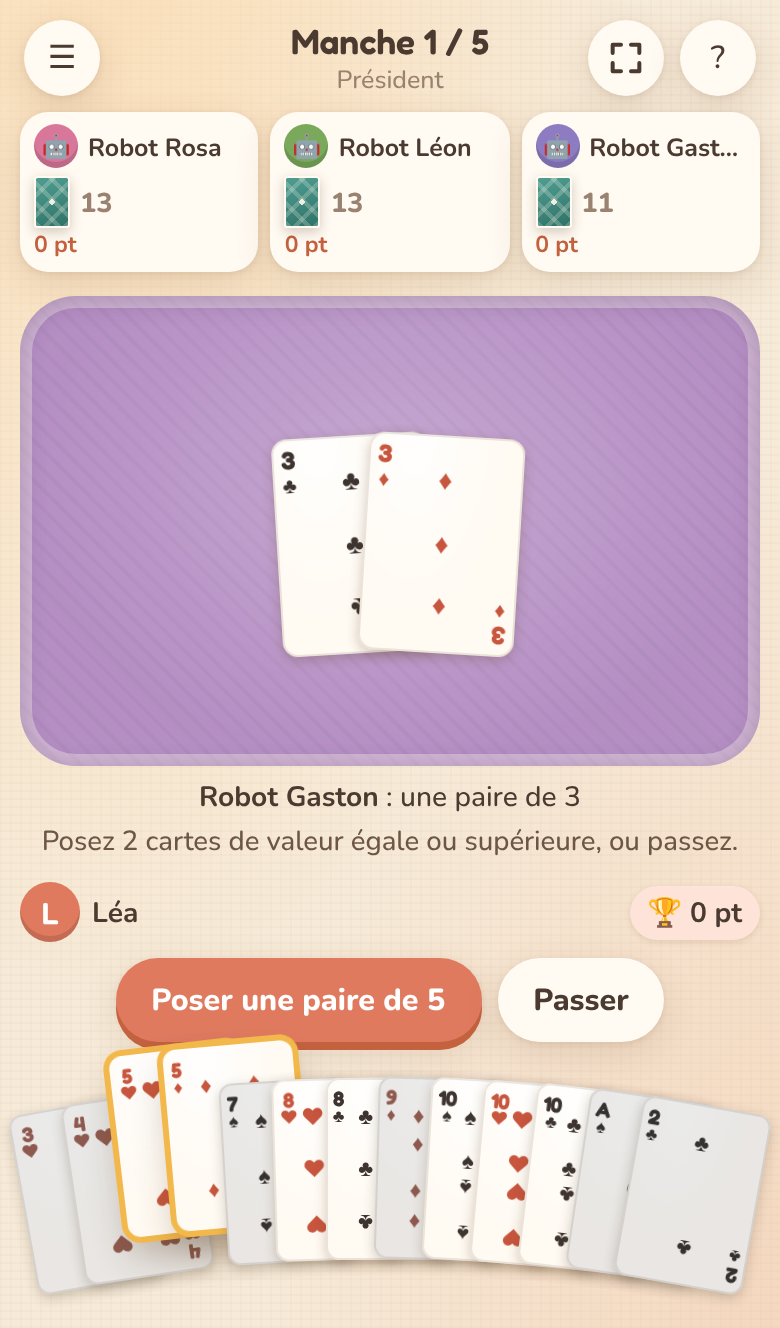
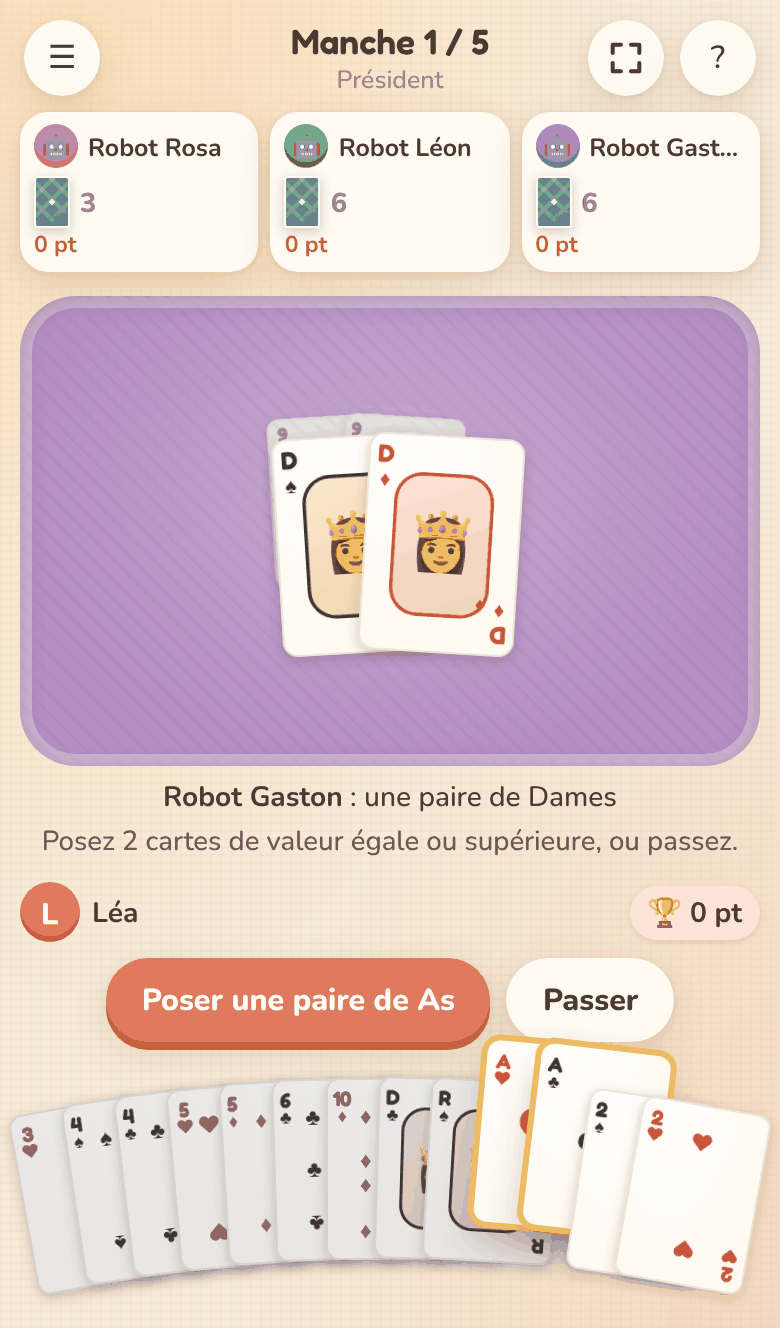
Président : capture d'écran du README et « … ou rien ! » plus lisible
Claude-Session: https://claude.ai/code/session_01AF6taeG9chrrGYHmKUShLX

diff --git a/js/games/president/view.js b/js/games/president/view.js
@@ -94,7 +94,7 @@ export function mount(root, s, host) {
     else {
       const who = esc(P(t.by).name);
       info = `<b>${who}</b> : ${R.playLabel(t.cards)}`;
-      if (s.trick.match != null) info += ` <span class="pr-match">${R.valueName(t.cards[0])} ou rien !</span>`;
+      if (s.trick.match != null) info += ` — <span class="pr-match">${R.valueName(t.cards[0])} ou rien !</span>`;
     }
     return `<section class="pr-table" data-anchor="table">
       ${prev ? group(prev, 'prev') : ''}

diff --git a/README.md b/README.md
@@ -11,12 +11,14 @@ Application web pensée pour le navigateur mobile, sans installation (elle peut 
     <th>Sea Salt &amp; Paper</th>
     <th>Bataille navale</th>
     <th>Huit américain</th>
+    <th>Président</th>
   </tr>
   <tr>
     <td><img src="docs/home.png" width="250" alt="Accueil : parties en cours et choix du jeu"></td>
     <td><img src="docs/seasalt.png" width="250" alt="Sea Salt &amp; Paper : pioche, défausses et main du joueur"></td>
     <td><img src="docs/naval.png" width="250" alt="Bataille navale : grille adverse, tir visé et flotte du joueur"></td>
     <td><img src="docs/eights.png" width="250" alt="Huit américain : pioche, défausse et main du joueur avec les cartes jouables en surbrillance"></td>
+    <td><img src="docs/president.png" width="250" alt="Président : pli en cours sur la table et paire d'as sélectionnée dans la main"></td>
   </tr>
 </table>
 
